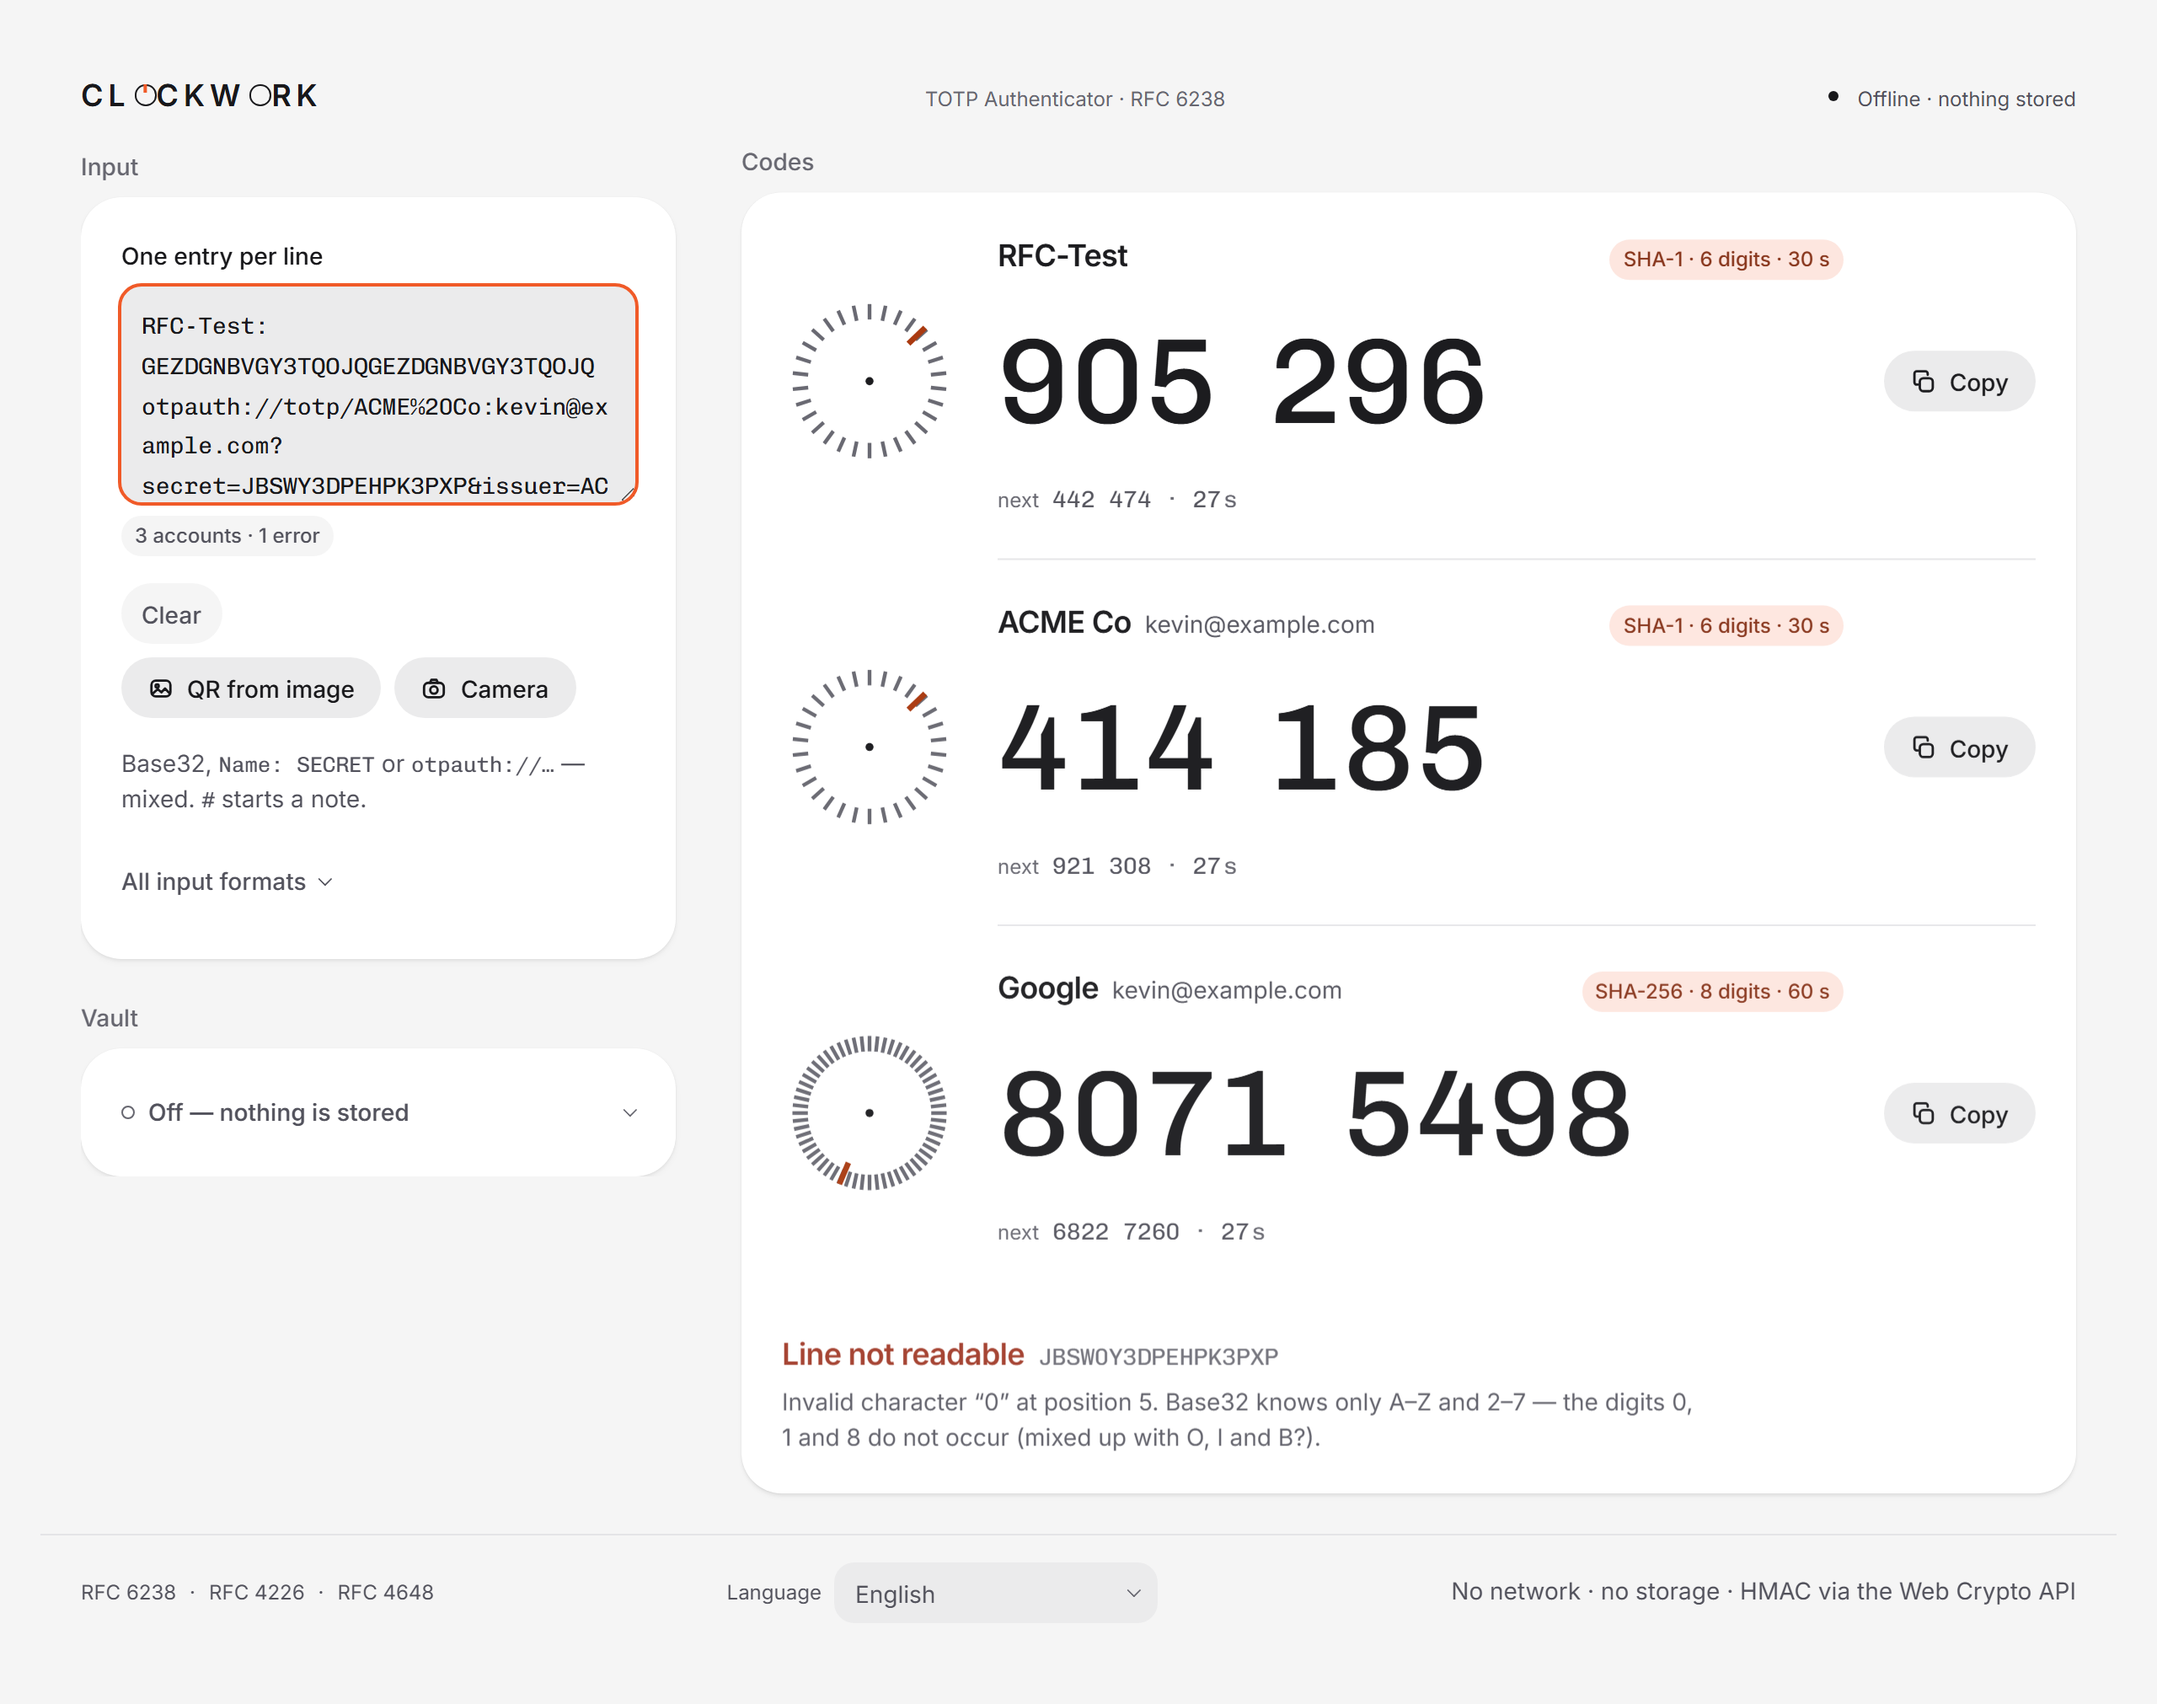
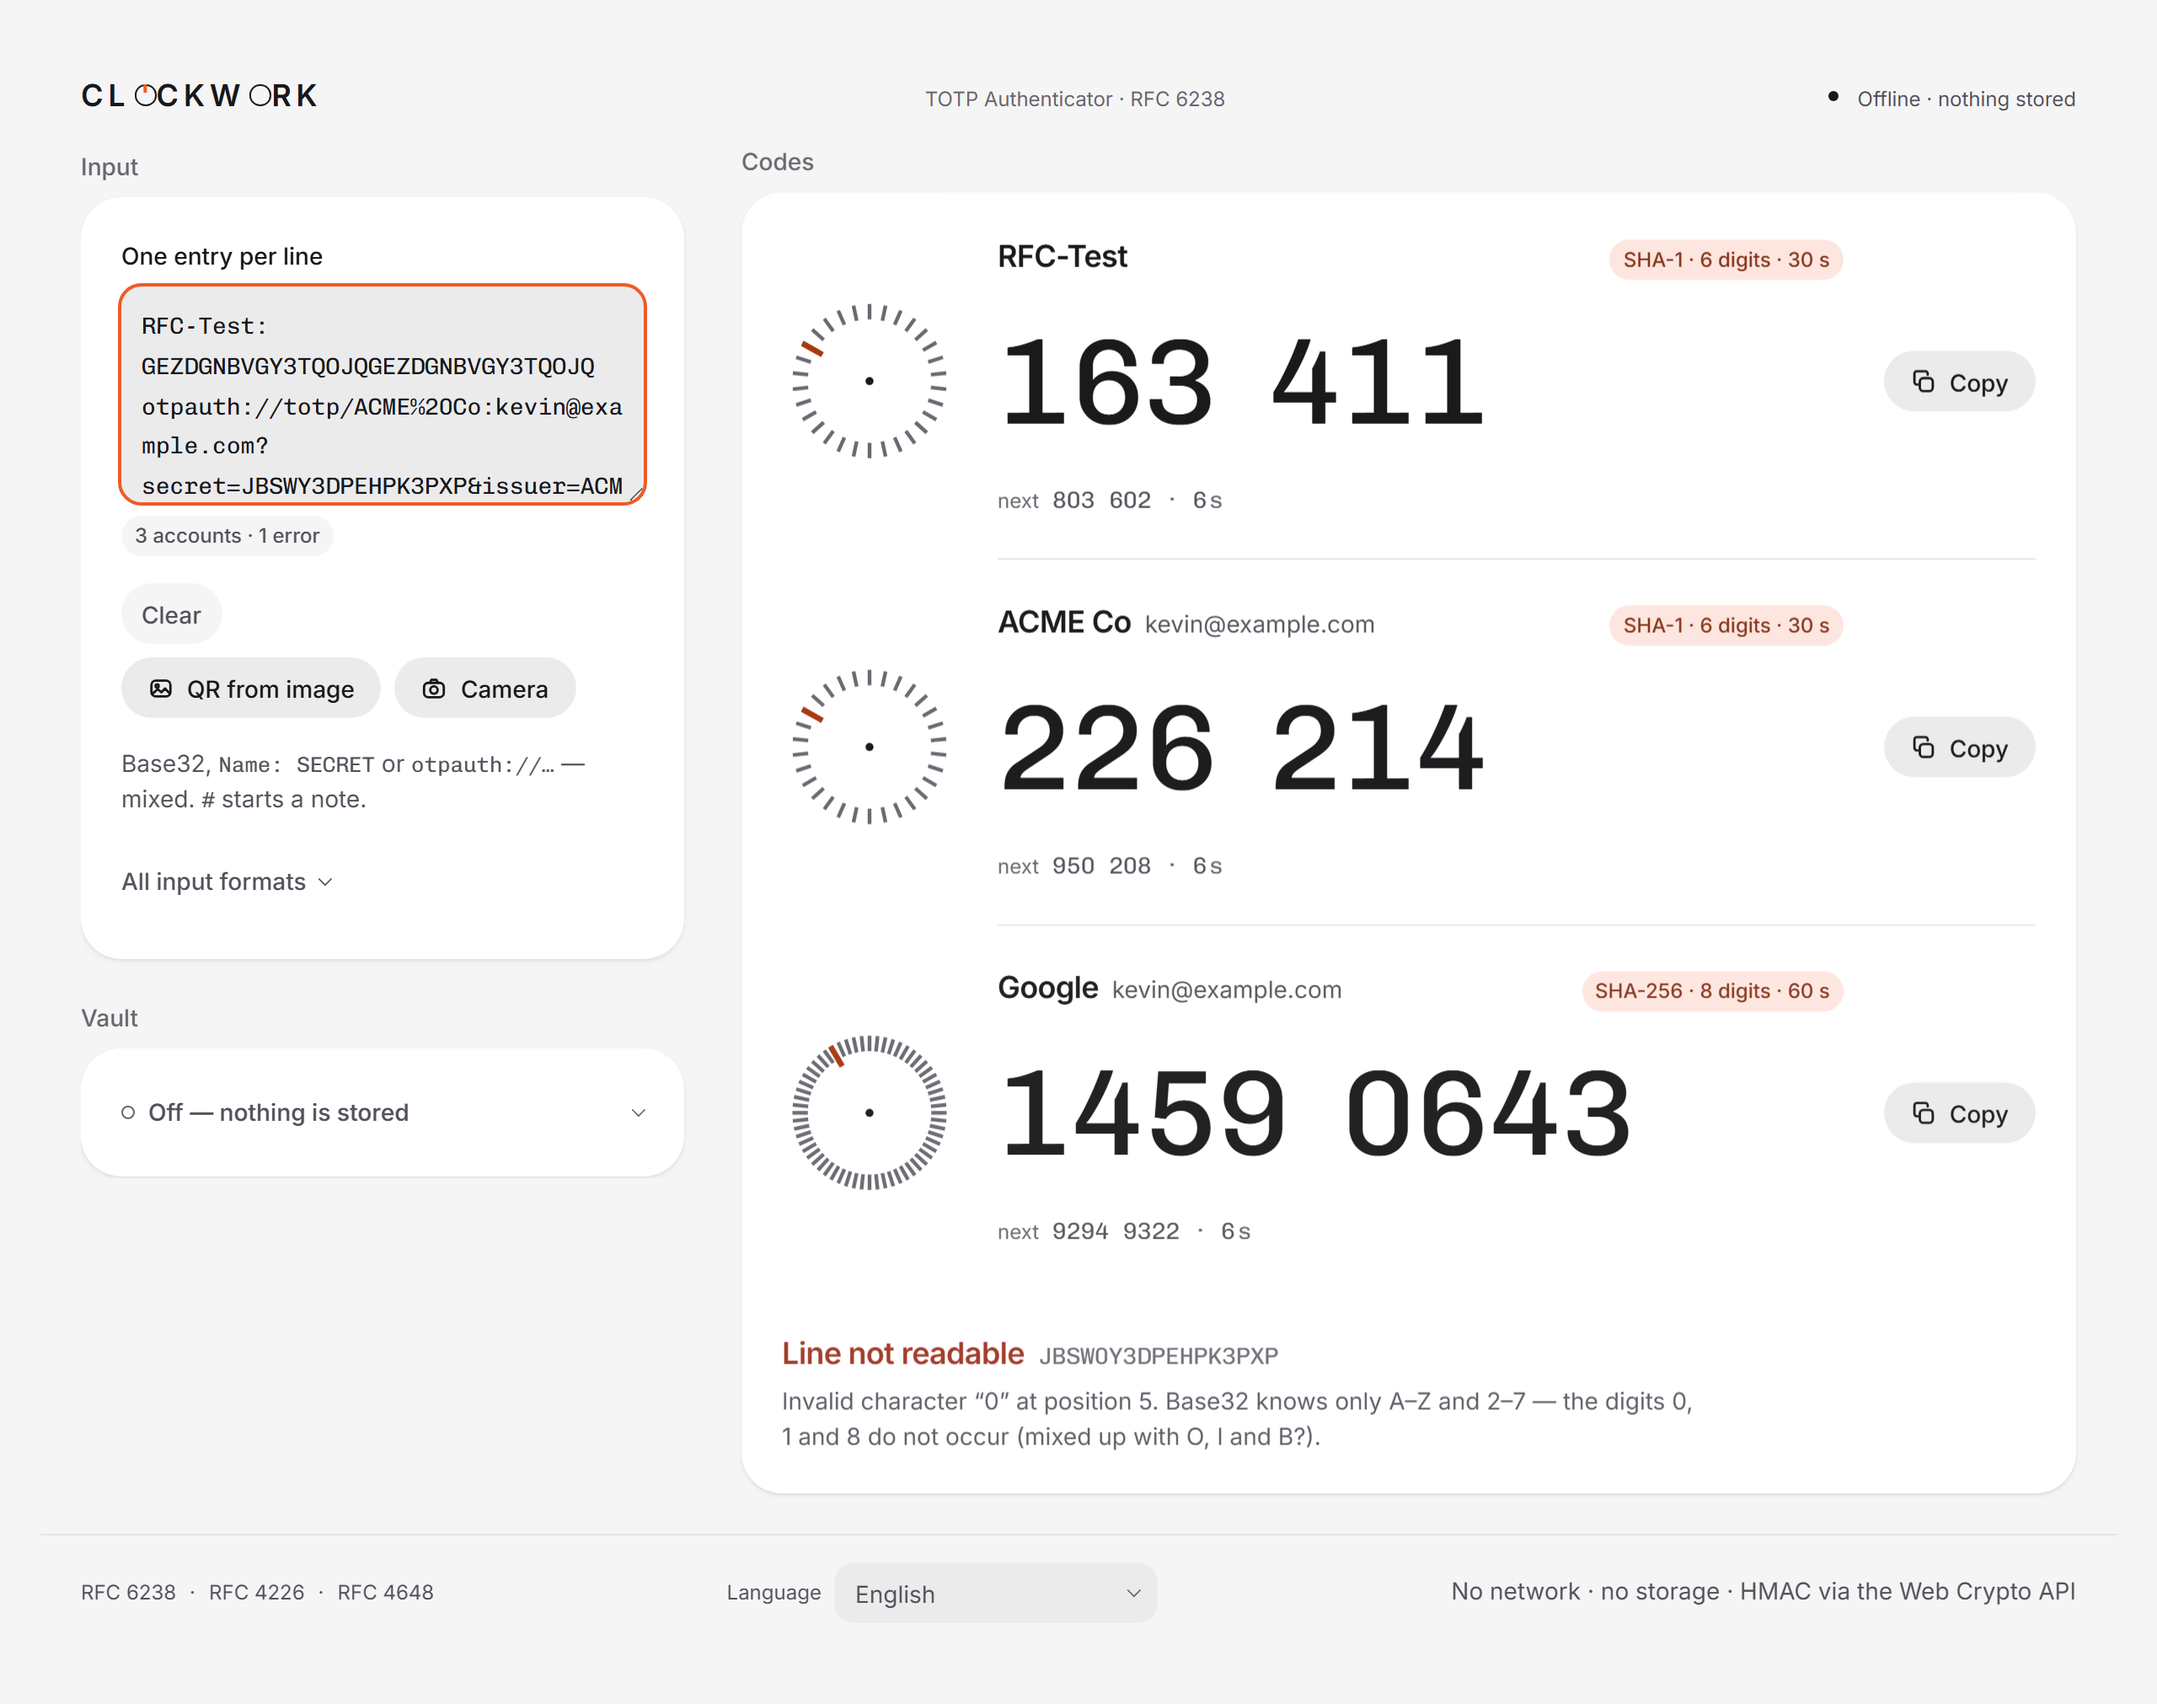
chore(release): Version 1.5.0, Doku und Bilder nachgezogen
package.json und package-lock auf 1.5.0, Android versionName 1.5.0 /
versionCode 10500 (Major*10000 + Minor*100 + Patch).

README.md, SECURITY.md, CONTRIBUTING.md auf die gemessenen Zahlen: 517
Tests (514 + 3 — ui-literals.test.ts erzeugt einen Test je Datei in
src/ui, und V11 hat drei Module hinzugefuegt), Buendel 801 / 490 / 473 kB
mit gzip 331 / 252 / 247. CONTRIBUTING fuehrt jetzt vier Messskripte statt
drei, README nennt die Bewegungen in einem Satz — samt der Zusage, dass
jede von ihnen prefers-reduced-motion achtet und ein Skript das beweist.

Die README-Bilder sind neu geschossen: Der A0-Fix setzt den Fuss an die
Fensterunterkante, und genau das aendert ein hohes Standbild.

diff --git a/README.md b/README.md
@@ -33,6 +33,10 @@ position 5` beats a blank screen.
 - **Speaks 37 languages**, all bundled, including right-to-left layouts.
 - **Installs as a PWA**, or runs as one self-contained HTML file you can carry
   on a USB stick and open with a double click.
+- **Moves with intent, not for show.** Disclosures glide, the language
+  popover fades out, a spinner appears while your passphrase is stretched, and
+  on a phone the header steps out of the way while you scroll down. Every one
+  of those honours `prefers-reduced-motion`, and a check script proves it.
 - **Puts the codes first on a phone.** Below 1024 px the code cards sit right
   under the header, copy buttons in thumb reach; input and vault fold into
   single rows until you tap them. The desktop layout is unchanged.
@@ -83,7 +87,7 @@ Run it from source:
 ```bash
 npm ci
 npm run dev        # http://localhost:5173
-npm test           # 514 tests
+npm test           # 517 tests
 npm run build      # dist/ (PWA) + dist/clockwork.html (single file)
 ```
 
@@ -182,9 +186,9 @@ $env:CLOCKWORK_LANGS = 'de,en,fr'; npm run build  # PowerShell
 
 | Build                  | `dist/clockwork.html` | gzip   |
 | ---------------------- | --------------------- | ------ |
-| default (37 languages) | 794 kB                | 328 kB |
-| `de,en,fr`             | 482 kB                | 250 kB |
-| `en` only              | 465 kB                | 245 kB |
+| default (37 languages) | 801 kB                | 331 kB |
+| `de,en,fr`             | 490 kB                | 252 kB |
+| `en` only              | 473 kB                | 247 kB |
 
 Sizes are decimal kB (1000 bytes). `scripts/check-bundle.mjs` prints both that
 and KiB, because mixing the two silently is a mistake this project has already
@@ -230,7 +234,7 @@ npm run shots       # Playwright walk-through + screenshots (needs a server on :
 | Target                | What it is                                                      |
 | --------------------- | --------------------------------------------------------------- |
 | `dist/`               | Installable PWA: manifest, service worker, icons, works offline |
-| `dist/clockwork.html` | One file, everything inline — including the fonts. ~794 kB      |
+| `dist/clockwork.html` | One file, everything inline — including the fonts. ~801 kB      |
 
 Hosting is a plain static deploy; `vercel.json` carries the security headers,
 and a test keeps them in step with the policy the build embeds.

diff --git a/CONTRIBUTING.md b/CONTRIBUTING.md
@@ -153,12 +153,14 @@ extracted reference values live in `docs/heroui-referenz.md`.
 
 ### Measure it, do not eyeball it
 
-Three scripts exist because three claims cannot be checked by looking:
+Four scripts exist because four claims cannot be checked by looking:
 
 ```bash
 node scripts/check-bundle.mjs      # the offline promise, measured on the bundle
 node scripts/check-contrast.mjs    # WCAG AA, measured on rendered pixels
 node scripts/check-tokens.mjs      # no component sets its own values
+node scripts/check-motion.mjs      # every motion runs — and none under
+                                   # prefers-reduced-motion
 ```
 
 `check-contrast.mjs` reads the pixels the browser actually painted — including

diff --git a/SECURITY.md b/SECURITY.md
@@ -78,7 +78,7 @@ against them:
 Every promise above is meant to be checkable, not believed:
 
 ```bash
-npm ci && npm test        # RFC 4226 / 6238 / 4648 test vectors, 514 tests
+npm ci && npm test        # RFC 4226 / 6238 / 4648 test vectors, 517 tests
 npm run build             # produces dist/ and dist/clockwork.html
 
 # No network API survives into the bundle — expect 0 for every pattern
